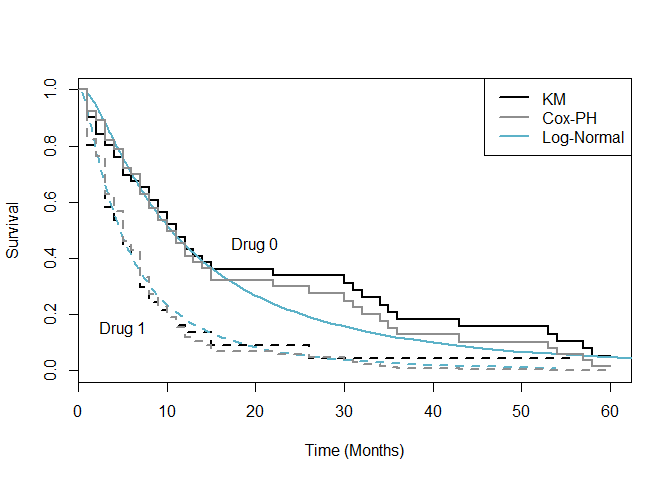
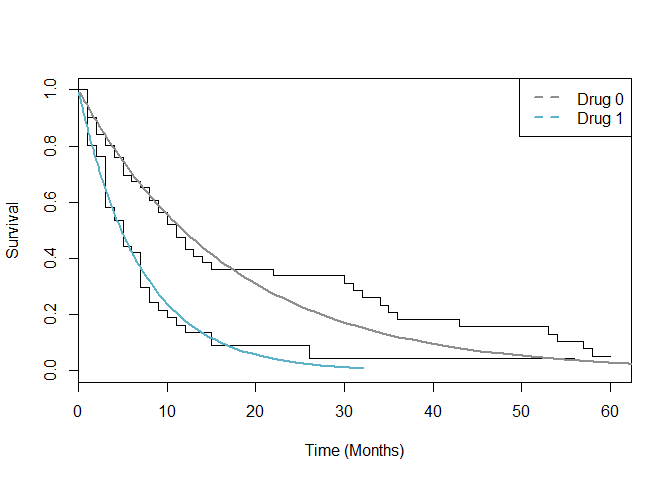
Final Final.

diff --git a/HW_04_censoring.md b/HW_04_censoring.md
@@ -479,6 +479,15 @@ plot(residuals(coxfit2, type='schoenfeld'))
 ![](HW_04_censoring_files/figure-markdown_github/unnamed-chunk-5-5.png)
 
 ``` r
+#Plotting the Cumulative Hazard
+cumhaz.plot <- survfit(Surv(time, censor) ~ drug, data, type='fleming') 
+
+plot(cumhaz.plot, lty=2:3, fun='cumhaz', xlab='Time (Months)', ylab='Cumulative Hazard')
+```
+
+![](HW_04_censoring_files/figure-markdown_github/unnamed-chunk-5-6.png)
+
+``` r
 ## Global test looks good. Plots look OK to me. 
 ## Residuals look good.
 ## Age improves fit.
@@ -490,7 +499,7 @@ autoplot(survfit(coxfit1, newdata=data.frame(drug=1)), conf.int=F)
     ## Warning in model.frame.default(Terms2, data = newdata, na.action =
     ## na.action, : variable 'drug' is not a factor
 
-![](HW_04_censoring_files/figure-markdown_github/unnamed-chunk-5-6.png)
+![](HW_04_censoring_files/figure-markdown_github/unnamed-chunk-5-7.png)
 
 ``` r
 ##Survival for Age = 50
@@ -500,7 +509,7 @@ autoplot(survfit(coxfit2, newdata=data.frame(drug=0, age=50)), conf.int=F)
     ## Warning in model.frame.default(Terms2, data = newdata, na.action =
     ## na.action, : variable 'drug' is not a factor
 
-![](HW_04_censoring_files/figure-markdown_github/unnamed-chunk-5-7.png)
+![](HW_04_censoring_files/figure-markdown_github/unnamed-chunk-5-8.png)
 
 ``` r
 autoplot(survfit(coxfit2, newdata=data.frame(drug=1, age=50)), conf.int=F)
@@ -509,7 +518,7 @@ autoplot(survfit(coxfit2, newdata=data.frame(drug=1, age=50)), conf.int=F)
     ## Warning in model.frame.default(Terms2, data = newdata, na.action =
     ## na.action, : variable 'drug' is not a factor
 
-![](HW_04_censoring_files/figure-markdown_github/unnamed-chunk-5-8.png)
+![](HW_04_censoring_files/figure-markdown_github/unnamed-chunk-5-9.png)
 <p>
 Assumptions look good, fit is reasonable. I'll compare it to the parametric curves at the end
 </p>
@@ -681,6 +690,31 @@ fit4 <- flexsurvreg(Surv(time, censor) ~ drug + age, data = data, dist = "llogis
 ## Getting the same results as before, except the direction of the exponential coefficient flips.
 ##Not sure what this means. I'm going to stick with the normal method.
 
+##Let's check some Hazard functions
+plot(fit1, type='cumhaz')
+```
+
+![](HW_04_censoring_files/figure-markdown_github/unnamed-chunk-6-5.png)
+
+``` r
+plot(fit2, type='cumhaz')
+```
+
+![](HW_04_censoring_files/figure-markdown_github/unnamed-chunk-6-6.png)
+
+``` r
+plot(fit3, type='cumhaz') ## Looks like Log-Norm or LogLog fits this the best! More Justification!!!
+```
+
+![](HW_04_censoring_files/figure-markdown_github/unnamed-chunk-6-7.png)
+
+``` r
+plot(fit4, type='cumhaz')
+```
+
+![](HW_04_censoring_files/figure-markdown_github/unnamed-chunk-6-8.png)
+
+``` r
 ##Plot the Curves with the KM Estimates
 ##I'll plot each seperately and evaluate fit, then show the final one.
 
@@ -689,7 +723,7 @@ plot(fit1, conf.int=T, lty = 1, xlab='Time (Months)', ylab='Survival')
 legend('topright', c('KM', 'Exponential'), lwd=c(1,2), lty=1, col=c("black","red"))
 ```
 
-![](HW_04_censoring_files/figure-markdown_github/unnamed-chunk-6-5.png)
+![](HW_04_censoring_files/figure-markdown_github/unnamed-chunk-6-9.png)
 
 ``` r
 plot(fit_KM_drug, conf.int=F, xlab='Time (Months)', ylab='Survival')
@@ -698,7 +732,7 @@ lines(predict(fit_AFT_exp, newdata=list(drug='1', age=36),type="quantile",p=seq(
 legend('topright', c('Drug 0', 'Drug 1'), lwd=2, lty=2, col=c("#8E8E8E","#5CB2C8"))
 ```
 
-![](HW_04_censoring_files/figure-markdown_github/unnamed-chunk-6-6.png)
+![](HW_04_censoring_files/figure-markdown_github/unnamed-chunk-6-10.png)
 
 ``` r
 #Wei
@@ -707,7 +741,7 @@ lines(survfit(coxfit2), conf.int=F, col='#8E8E8E', lwd=2)
 legend('topright', c('KM','Cox-PH', 'Weibull'), lwd=c(2,2,2), lty=1, col=c('black',"#8E8E8E","#5CB2C8"))
 ```
 
-![](HW_04_censoring_files/figure-markdown_github/unnamed-chunk-6-7.png)
+![](HW_04_censoring_files/figure-markdown_github/unnamed-chunk-6-11.png)
 
 ``` r
 plot(fit_KM_drug, conf.int=F, xlab='Time (Months)', ylab='Survival', lty=c(1,2), lwd=2)
@@ -723,7 +757,7 @@ text(20, 0.45, 'Drug 0')
 text(5, 0.15, 'Drug 1')
 ```
 
-![](HW_04_censoring_files/figure-markdown_github/unnamed-chunk-6-8.png)
+![](HW_04_censoring_files/figure-markdown_github/unnamed-chunk-6-12.png)
 
 ``` r
 #Log-Normal
@@ -732,7 +766,7 @@ lines(survfit(coxfit2), conf.int=F, col='#8E8E8E', lwd=2)
 legend('topright', c('KM','Cox-PH', 'Log-Normal'), lwd=c(2,2,2), lty=1, col=c('black',"#8E8E8E","#5CB2C8"))
 ```
 
-![](HW_04_censoring_files/figure-markdown_github/unnamed-chunk-6-9.png)
+![](HW_04_censoring_files/figure-markdown_github/unnamed-chunk-6-13.png)
 
 ``` r
 plot(fit_KM_drug, conf.int=F, xlab='Time (Months)', ylab='Survival', lty=c(1,2), lwd=2)
@@ -748,7 +782,7 @@ text(20, 0.45, 'Drug 0')
 text(5, 0.15, 'Drug 1')
 ```
 
-![](HW_04_censoring_files/figure-markdown_github/unnamed-chunk-6-10.png)
+![](HW_04_censoring_files/figure-markdown_github/unnamed-chunk-6-14.png)
 
 ``` r
 #Log-Logistic
@@ -756,7 +790,7 @@ plot(fit3, conf.int=T, lty = 1, xlab='Time (Months)', ylab='Survival')
 legend('topright', c('KM', 'Log-Logistic'), lwd=c(1,2), lty=1, col=c("black","red"))
 ```
 
-![](HW_04_censoring_files/figure-markdown_github/unnamed-chunk-6-11.png)
+![](HW_04_censoring_files/figure-markdown_github/unnamed-chunk-6-15.png)
 
 ``` r
 plot(fit_KM_drug, conf.int=F, xlab='Time (Months)', ylab='Survival')
@@ -765,7 +799,7 @@ lines(predict(fit_AFT_loglog, newdata=list(drug='1', age=36),type="quantile",p=s
 legend('topright', c('Drug 0', 'Drug 1'), lwd=2, lty=2, col=c("#8E8E8E","#5CB2C8"))
 ```
 
-![](HW_04_censoring_files/figure-markdown_github/unnamed-chunk-6-12.png)
+![](HW_04_censoring_files/figure-markdown_github/unnamed-chunk-6-16.png)
 
 ``` r
 ## Both methods show that at about 10 months, there will be 0% survival. 
@@ -777,7 +811,7 @@ plot(fit3, newdata=data.frame(drug='0', age=50), col=c("#8E8E8E"))
 lines(fit3, newdata=data.frame(drug='1', age=50), col=c("#5CB2C8"))
 ```
 
-![](HW_04_censoring_files/figure-markdown_github/unnamed-chunk-6-13.png)
+![](HW_04_censoring_files/figure-markdown_github/unnamed-chunk-6-17.png)
 
 ``` r
 ## Let's combine into a plot for reporting.
@@ -792,7 +826,7 @@ text(10, 0.25, 'Drug 0')
 text(2, 0.15, 'Drug 1')
 ```
 
-![](HW_04_censoring_files/figure-markdown_github/unnamed-chunk-6-14.png)
+![](HW_04_censoring_files/figure-markdown_github/unnamed-chunk-6-18.png)
 <p>
 Ideally, I would like to find some sort of plot that tests the log-normal assumption. But I have searched high and low and can't find anything. Visual inspection will just have to do, along with AIC.
 </p>
